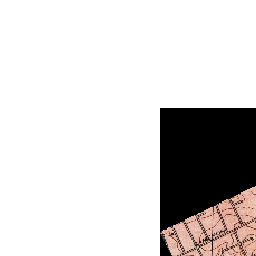
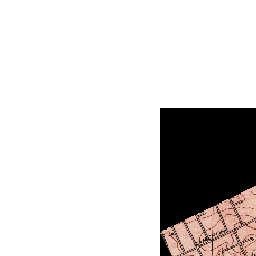
1993

diff --git a/1993(1).html b/1993(1).html
@@ -26,10 +26,10 @@
 <body>
   <div id="map"></div>
   <script>
-      var map = L.map('map').setView([35.90490605074834, -79.05010868058658], 12.0);
+      var map = L.map('map').setView([35.90501193851149, -79.05393784044938], 14.0);
       L.tileLayer('./{z}/{x}/{y}.png', {
         minZoom: 12,
-        maxZoom: 12,
+        maxZoom: 16,
         tms: false,
         attribution: 'Generated by TilesXYZ'
       }).addTo(map);
